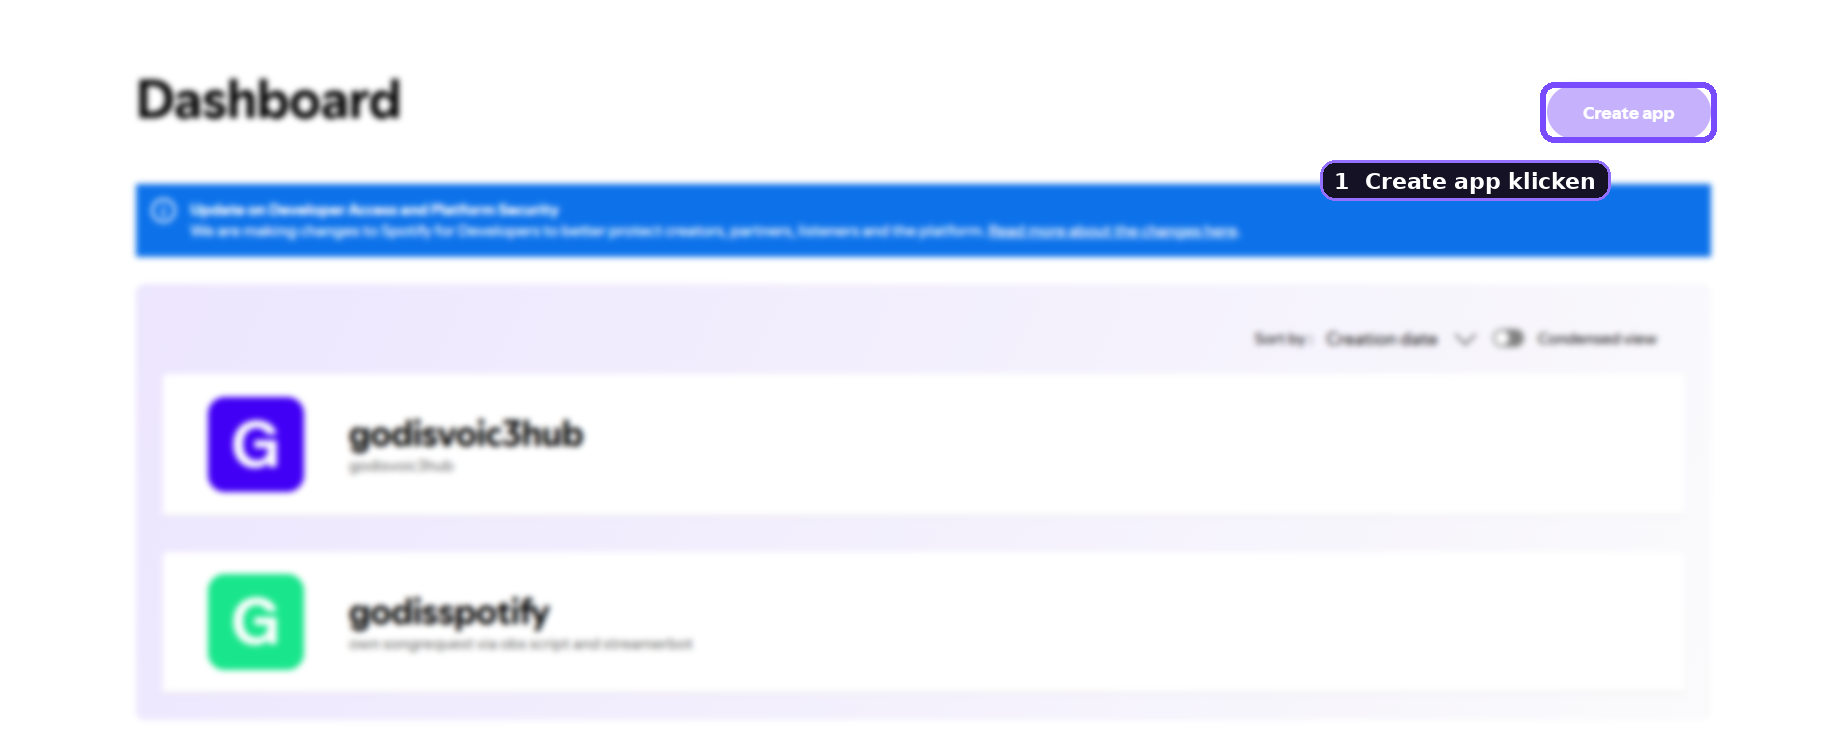
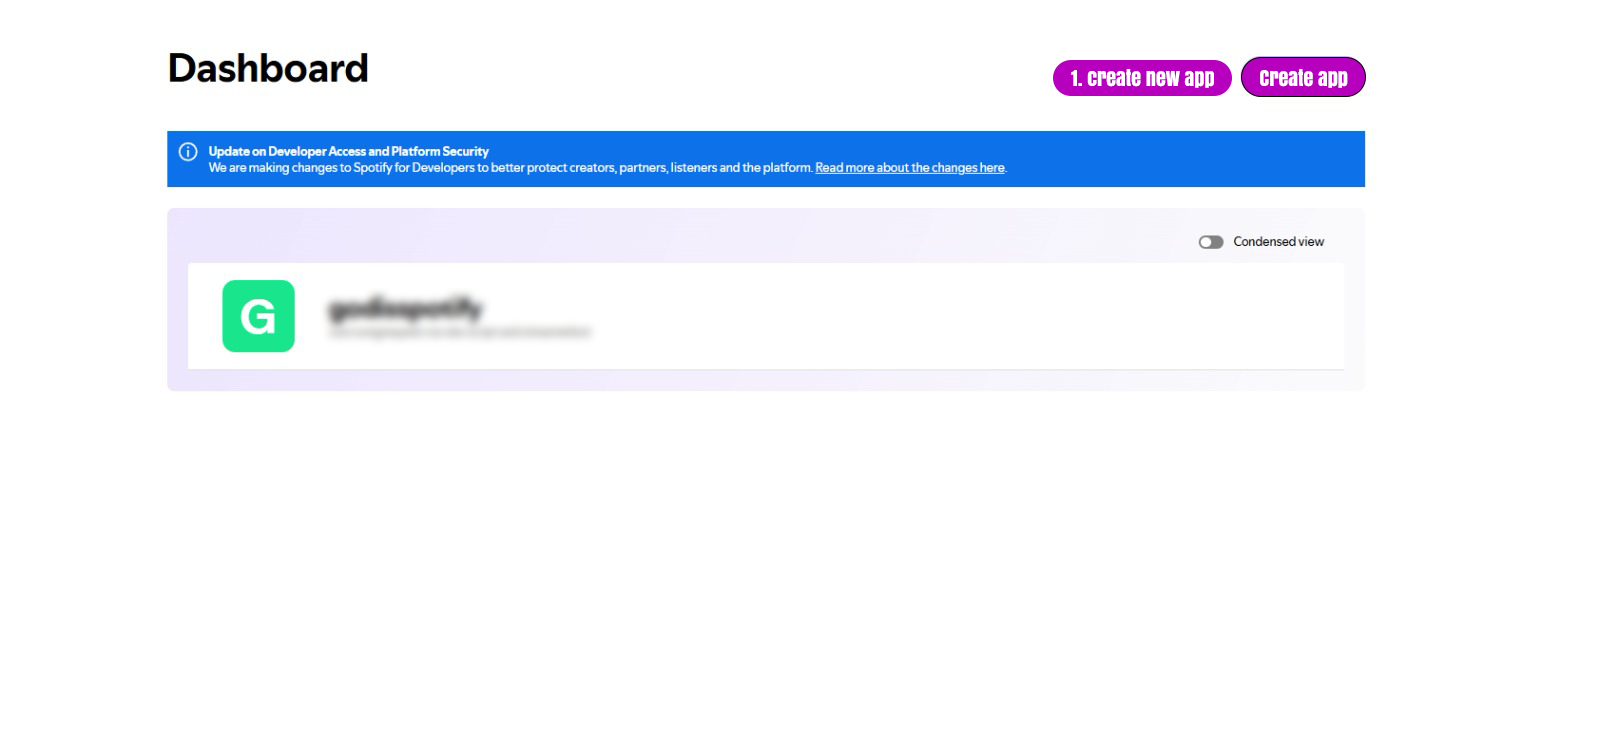
Fix spotify overlay sync and tutorial assets

Changed region(s): [[0.0625, 0.0599, 0.9375, 0.6894], [0.0938, 0.7493, 0.375, 0.9292], [0.6562, 0.4196, 0.9062, 0.4796]]

diff --git a/core/host/static/js/app.js b/core/host/static/js/app.js
@@ -54,7 +54,7 @@ const TESTER_CREDITS = [
 function nav(active){
   const items = [
     ["dashboard","Dashboard","/"],["platforms","Plattformen","/plattformen"],["chat","Chat","/chat"],["obs_meld","OBS/Meld Integration","/obs-meld-integration"],
-    ["info3ditor","Info3ditor","/info3ditor"],["chattim3r","Chattim3r","/chattim3r"],["plugins","Plugins","/plugins"],["modalot","Modalot","/modalot"],["spotify","Spotis3mptify","/spotis3mptify"],["easyslider","3asyslid3r","/3asyslid3r"],["settings",L("Einstellungen","Settings"),"/einstellungen"],["tutorials","Tutorials","/tutorials"],["dev","DEV","/dev"]
+    ["info3ditor","Info3ditor","/info3ditor"],["chattim3r","Chattim3r","/chattim3r"],["plugins","Plugins","/plugins"],["modalot","Modalot","/modalot"],["easyslider","3asyslid3r","/3asyslid3r"],["settings",L("Einstellungen","Settings"),"/einstellungen"],["tutorials","Tutorials","/tutorials"],["dev","DEV","/dev"]
   ];
   const issueUrl = "https://github.com/godis3mpty666/godisalotachatw3b/issues/new?title=" + encodeURIComponent("[Feedback] ") + "&body=" + encodeURIComponent("**Was ist passiert oder was soll verbessert werden?**\n\n\n**So kann man es nachstellen (bei einem Bug):**\n1. \n2. \n\n**Version:** " + (window.WEB_VERSION || "unbekannt") + "\n\n**Zusätzliche Infos / Screenshots:**\n");
   const credits = [
@@ -639,9 +639,9 @@ async function renderTutorials(){
   const steps=[
     {title:"Open the Spotify Developer Dashboard",text:"Open the Spotify Developer Dashboard and click Create app.",image:"01_spotify_dashboard_app_erstellen_markieren.png"},
     {title:"Create your app",text:"Enter an app name and a short app description. Then create the app.",image:"02_app_name_und_beschreibung_markieren.png"},
-    {title:"Add the Redirect URI",text:"Open the app settings, add the Redirect URI shown below under Redirect URIs, and save it.",image:"03_redirect_uri_hinzufuegen_markieren.png",redirect:true},
-    {title:"Copy the Client ID",text:"Copy the Client ID from your Spotify app and paste it below.",image:"04_client_id_kopieren_markieren.png",credentials:true},
-    {title:"Copy the Client Secret",text:"Click View client secret, copy the Client Secret, and paste it below.",image:"05_client_secret_anzeigen_und_kopieren_markieren.png",credentials:true},
+    {title:"Copy Client ID and Client Secret",text:"Copy the Client ID and Client Secret from your Spotify app and paste them below.",image:"04_spotify_client_id_secret_blur_markieren.png",credentials:true},
+    {title:"Copy the Redirect URL",text:"Copy the Redirect URL shown below and add it under Redirect URIs in Spotify.",image:"05_spotify_redirect_url_kopieren_markieren.png",redirect:true},
+    {title:"Save the Spotify app",text:"Save the Spotify app settings after the Redirect URL is added.",image:"06_spotify_save_markieren.png",redirect:true},
     {title:"Save and connect Spotify",text:"Save the app settings, then save your credentials and start the Spotify sign-in.",image:"06_app_einstellungen_speichern_markieren.png",credentials:true,connect:true}
   ];
   const twitchSteps=[
@@ -696,6 +696,14 @@ async function renderTutorials(){
     "Open the Tools menu in OBS":"Werkzeuge-Menü in OBS öffnen","Start OBS Studio and open Tools in the top menu bar.":"Starte OBS Studio und öffne Werkzeuge in der oberen Menüleiste.","Open WebSocket Server Settings":"WebSocket-Servereinstellungen öffnen","Choose WebSocket Server Settings. OBS Studio 28 and newer already include obs-websocket.":"Wähle WebSocket-Servereinstellungen. Ab OBS Studio 28 ist obs-websocket bereits enthalten.","Enable the WebSocket server":"WebSocket-Server aktivieren","Enable the WebSocket server and keep authentication enabled. A password prevents unauthorized programs from controlling OBS.":"Aktiviere den WebSocket-Server und lasse die Authentifizierung eingeschaltet. Das Passwort schützt OBS vor unerlaubter Steuerung.","Copy port and password":"Port und Passwort kopieren","Keep the server port, normally 4455, and copy or set the WebSocket password. Show Connect Info can display the current connection information.":"Übernimm den Server-Port, normalerweise 4455, und kopiere oder setze das WebSocket-Passwort. Show Connect Info zeigt die aktuellen Verbindungsdaten.","Save and test the OBS connection":"OBS-Verbindung speichern und testen","Enter host, port, and password below, save them, and test the local WebSocket connection.":"Trage unten Host, Port und Passwort ein, speichere sie und teste die lokale WebSocket-Verbindung.",
     "Open MELD Settings":"MELD-Einstellungen öffnen","Start MELD Studio and open Settings.":"Starte MELD Studio und öffne die Einstellungen.","Allow remote connections":"Remote-Verbindungen erlauben","Open Advanced and enable Allow remote connections. This starts MELD's local WebChannel interface.":"Öffne Erweitert bzw. Advanced und aktiviere Allow remote connections. Dadurch startet MELDs lokale WebChannel-Schnittstelle.","Save and test the MELD connection":"MELD-Verbindung speichern und testen","Keep the local defaults 127.0.0.1 and port 13376, save them in godisalotachat, and test the connection.":"Behalte die lokalen Standardwerte 127.0.0.1 und Port 13376 bei, speichere sie in godisalotachat und teste die Verbindung."
   };
+  Object.assign(tutorialDe,{
+    "Copy Client ID and Client Secret":"Client ID und Client Secret kopieren",
+    "Copy the Client ID and Client Secret from your Spotify app and paste them below.":"Kopiere Client ID und Client Secret aus deiner Spotify-App und fuege beide unten ein.",
+    "Copy the Redirect URL":"Redirect-URL kopieren",
+    "Copy the Redirect URL shown below and add it under Redirect URIs in Spotify.":"Kopiere die unten angezeigte Redirect-URL und trage sie in Spotify unter Redirect URIs ein.",
+    "Save the Spotify app":"Spotify-App speichern",
+    "Save the Spotify app settings after the Redirect URL is added.":"Speichere die Spotify-App-Einstellungen, nachdem die Redirect-URL hinzugefuegt wurde."
+  });
   const tutorialCopy=value=>L(tutorialDe[String(value)]||String(value),String(value));
   const tutorialCounter=(index,total)=>L(`Schritt ${index+1} von ${total}`,`Step ${index+1} of ${total}`);
   const showOverview=()=>{
@@ -919,9 +927,10 @@ async function renderTutorials(){
   const showMeld=()=>{
     let index=0;
     shell("tutorials","Tutorials",L("MELD-Remoteverbindung aktivieren und lokal testen.","Enable MELD remote connections and test locally."),`<section class="card tutorialWizard"><button type="button" class="secondary tutorialOverviewBack" id="tutorialOverviewBack">← ${L("Alle Plattformen","All platforms")}</button><div class="tutorialLayout"><aside class="tutorialSteps" id="tutorialSteps"></aside><div class="tutorialMain"><div class="tutorialProgress"><span id="tutorialProgressBar"></span></div><div class="tutorialCounter" id="tutorialCounter"></div><h3 id="tutorialTitle"></h3><p id="tutorialText"></p><div class="tutorialImageFrame"><img id="tutorialImage" alt="MELD setup"></div><div id="tutorialFields" class="tutorialFields"></div><div class="btnLine tutorialActions"><button type="button" class="secondary" id="tutorialPrev">${L("Zurück","Back")}</button><button type="button" id="tutorialNext">${L("Weiter","Next")}</button></div><div class="small" id="tutorialResult"></div></div></div></section>`);
-    const saveAndTest=async()=>{const result=$("#tutorialResult");meld.enabled=true;meld.autoconnect=true;meld.host="127.0.0.1";meld.port="13376";delete meld.password;result.textContent=L("MELD-Einstellungen werden gespeichert...","Saving MELD settings...");const saved=await api("/api/settings",{method:"POST",headers:{"Content-Type":"application/json"},body:JSON.stringify(all)});if(!saved.ok){result.textContent=L("Speichern fehlgeschlagen: ","Could not save: ")+(saved.error||L("Unbekannter Fehler","Unknown error"));return;}result.textContent=L("Gespeichert. MELD-Verbindung wird getestet...","Saved. Testing the MELD connection...");const checked=await api("/api/test-platform/meld",{timeoutMs:10000});result.textContent=checked.ok?L("Verbunden: ","Connected: ")+(checked.detail||"MELD"):L("Verbindung fehlgeschlagen: ","Connection failed: ")+(checked.detail||checked.error||L("Unbekannter Fehler","Unknown error"));};
-    const render=()=>{const step=meldSteps[index];$("#tutorialSteps").innerHTML=meldSteps.map((item,i)=>`<button type="button" class="tutorialStep ${i===index?"active":""} ${i<index?"done":""}" data-step="${i}"><span>${i+1}</span><b>${esc(tutorialCopy(item.title))}</b></button>`).join("");$("#tutorialCounter").textContent=tutorialCounter(index,meldSteps.length);$("#tutorialTitle").textContent=tutorialCopy(step.title);$("#tutorialText").textContent=tutorialCopy(step.text);$("#tutorialImage").src=`/tutorial-asset/meld/${encodeURIComponent(step.image)}`;$("#tutorialImage").alt=tutorialCopy(step.title);$("#tutorialProgressBar").style.width=`${(index+1)/meldSteps.length*100}%`;$("#tutorialFields").innerHTML=step.connect?`<label><div>Host</div><input value="127.0.0.1" readonly></label><label><div>Port</div><input value="13376" readonly></label>`:"";$("#tutorialPrev").disabled=index===0;$("#tutorialNext").textContent=step.connect?L("Speichern & Verbindung testen","Save & test connection"):L("Weiter","Next");$$(".tutorialStep").forEach(button=>button.onclick=()=>{index=Number(button.dataset.step);render();});};
-    $("#tutorialOverviewBack").onclick=showOverview;$("#tutorialPrev").onclick=()=>{if(index>0){index--;render();}};$("#tutorialNext").onclick=()=>{if(index<meldSteps.length-1){index++;render();}else saveAndTest();};render();
+    const capture=()=>{const host=$("#tutorialMeldHost"),port=$("#tutorialMeldPort");if(host)meld.host=host.value.trim()||"127.0.0.1";if(port)meld.port=port.value.trim()||"13376";};
+    const saveAndTest=async()=>{const result=$("#tutorialResult");capture();meld.enabled=true;meld.autoconnect=true;delete meld.password;all.plugins=all.plugins||{};all.plugins.meld_control=all.plugins.meld_control||{};all.plugins.meld_control.enabled=true;result.textContent=L("MELD-Einstellungen werden gespeichert...","Saving MELD settings...");const saved=await api("/api/settings",{method:"POST",headers:{"Content-Type":"application/json"},body:JSON.stringify(all)});if(!saved.ok){result.textContent=L("Speichern fehlgeschlagen: ","Could not save: ")+(saved.error||L("Unbekannter Fehler","Unknown error"));return;}result.textContent=L("Gespeichert. MELD-Verbindung wird getestet...","Saved. Testing the MELD connection...");const checked=await api("/api/test-platform/meld",{timeoutMs:10000});result.textContent=checked.ok?L("Verbunden: ","Connected: ")+(checked.detail||"MELD"):L("Verbindung fehlgeschlagen: ","Connection failed: ")+(checked.detail||checked.error||L("Unbekannter Fehler","Unknown error"));};
+    const render=()=>{const step=meldSteps[index];$("#tutorialSteps").innerHTML=meldSteps.map((item,i)=>`<button type="button" class="tutorialStep ${i===index?"active":""} ${i<index?"done":""}" data-step="${i}"><span>${i+1}</span><b>${esc(tutorialCopy(item.title))}</b></button>`).join("");$("#tutorialCounter").textContent=tutorialCounter(index,meldSteps.length);$("#tutorialTitle").textContent=tutorialCopy(step.title);$("#tutorialText").textContent=tutorialCopy(step.text);$("#tutorialImage").src=`/tutorial-asset/meld/${encodeURIComponent(step.image)}`;$("#tutorialImage").alt=tutorialCopy(step.title);$("#tutorialProgressBar").style.width=`${(index+1)/meldSteps.length*100}%`;$("#tutorialFields").innerHTML=step.connect?`<label><div>Host</div><input id="tutorialMeldHost" value="${esc(meld.host||"127.0.0.1")}"></label><label><div>Port</div><input id="tutorialMeldPort" value="${esc(meld.port||"13376")}"></label>`:"";$("#tutorialPrev").disabled=index===0;$("#tutorialNext").textContent=step.connect?L("Speichern & Verbindung testen","Save & test connection"):L("Weiter","Next");$$(".tutorialStep").forEach(button=>button.onclick=()=>{capture();index=Number(button.dataset.step);render();});};
+    $("#tutorialOverviewBack").onclick=showOverview;$("#tutorialPrev").onclick=()=>{capture();if(index>0){index--;render();}};$("#tutorialNext").onclick=()=>{capture();if(index<meldSteps.length-1){index++;render();}else saveAndTest();};render();
   };
   showOverview();
 }

diff --git a/modules/plugins/spotis3mptify/spotis3mptify_core.py b/modules/plugins/spotis3mptify/spotis3mptify_core.py
@@ -1291,6 +1291,7 @@ NOWPLAYING = {"ok": False, "provider": "spotify", "accent": "#1DB954", "is_playi
 _NP_LOCK = threading.Lock()
 _NP_LAST_ID = ""
 _NP_LAST_PROGRESS = 0
+_MAIN_UI_NP_CACHE = {"ts": 0.0, "last_sig": ""}
 
 def _download_to(path, url):
     if not url: return False
@@ -1405,6 +1406,71 @@ def _update_nowplaying_files(meta, download_cover: bool):
         
     except Exception as e:
         _log_throttled("WARN", "np_file_export_failed", f"nowplaying file export failed: {e}", 30)
+
+def _sync_nowplaying_from_main_ui(force=False):
+    """Keep the standalone overlay in step with the main dashboard source."""
+    global NOWPLAYING, _MAIN_UI_NP_CACHE
+    base = (MAIN_UI_BASE or "").strip().rstrip("/")
+    if not base:
+        return False
+    try:
+        parsed = urllib.parse.urlparse(base)
+        if int(parsed.port or 80) == int(PORT):
+            return False
+    except Exception:
+        pass
+    now = time.time()
+    if not force and now - float(_MAIN_UI_NP_CACHE.get("ts") or 0.0) < 0.75:
+        return False
+    _MAIN_UI_NP_CACHE["ts"] = now
+    try:
+        req = urllib.request.Request(base + "/api/nowplaying?_=" + str(int(now * 1000)), method="GET", headers={"Accept": "application/json"})
+        with urllib.request.urlopen(req, timeout=1.2) as resp:
+            data = json.loads(resp.read().decode("utf-8", "ignore") or "{}")
+    except Exception as e:
+        _log_throttled("WARN", "main_ui_np_sync_failed", f"main ui nowplaying sync failed: {e}", 30)
+        return False
+    if not isinstance(data, dict):
+        return False
+    title = str(data.get("title") or data.get("name") or "").strip()
+    if not title or title == "Kein Song aktiv":
+        return False
+    cover = str(data.get("cover") or data.get("cover_url") or "").strip()
+    provider = str(data.get("provider") or data.get("source") or "spotify").strip().lower()
+    if provider not in ("youtube", "ytmusic"):
+        provider = "spotify"
+    meta = {
+        "ok": True,
+        "provider": provider,
+        "accent": "#FF0033" if provider in ("youtube", "ytmusic") else "#1DB954",
+        "is_playing": bool(data.get("is_playing", data.get("active", True))),
+        "id": str(data.get("id") or data.get("video_id") or data.get("url") or cover or title),
+        "title": title,
+        "artist": str(data.get("artist") or data.get("artists") or "").strip(),
+        "album": str(data.get("album") or "").strip(),
+        "url": str(data.get("url") or "").strip(),
+        "progress_ms": int(data.get("progress_ms") or 0),
+        "duration_ms": int(data.get("duration_ms") or 0),
+        "covers": {"url_640": cover, "url_300": cover, "url_64": cover},
+    }
+    sig = "|".join([meta["provider"], meta["id"], meta["title"], meta["artist"], cover])
+    with _NP_LOCK:
+        current_cover = ((NOWPLAYING.get("covers") or {}).get("url_640") or "")
+        old_sig = "|".join([
+            str(NOWPLAYING.get("provider") or ""),
+            str(NOWPLAYING.get("id") or ""),
+            str(NOWPLAYING.get("title") or ""),
+            str(NOWPLAYING.get("artist") or ""),
+            current_cover,
+        ])
+        if not force and sig == old_sig:
+            return False
+        NOWPLAYING.update(meta)
+        NOWPLAYING["updated_at"] = _now()
+        NOWPLAYING["files"] = {"artist": _p_np_artist(), "title": _p_np_title(), "album": _p_np_album(), "combo": _p_np_combo(), "url": _p_np_url(), f"cover_{COVER_IMAGE_SIZE}": _p_cover(COVER_IMAGE_SIZE)}
+    _MAIN_UI_NP_CACHE["last_sig"] = sig
+    _update_nowplaying_files(meta, download_cover=bool(cover and cover != current_cover))
+    return True
 
 def _extract_nowplaying_from_state(st):
     item = st.get("item") or {}
@@ -1568,6 +1634,7 @@ def _overlay_current():
         yt_active_for_overlay = False
     if not yt_active_for_overlay:
         _promote_spotify_if_really_playing("overlay_current")
+        _sync_nowplaying_from_main_ui()
     with _NP_LOCK:
         cur = dict(NOWPLAYING)
     try:
@@ -3106,7 +3173,7 @@ function provider(){return String(np.provider||np.source||'spotify').toLowerCase
 function providerColor(){return state.colors?.[provider()]||(provider()==='youtube'?'#FF0033':'#1DB954')}
 function bindValue(el){if(el.bind==='artist')return provider()==='youtube'?(np.artist||'powered by spotis3mptify'):(np.artist||'');if(el.bind==='song'||el.bind==='title')return provider()==='youtube'?(np.title||np.song||'YouTube Music'):(np.title||np.song||'');if(el.bind==='providerColor')return providerColor();return el.text||''}
 function fitText(n,el,force=false){if(!n||el.type!=='text')return;let sp=n.querySelector('.textInner');if(!sp)return;let boxW=n.clientWidth||(+el.w||1), textW=sp.scrollWidth||1, overflow=Math.max(0,textW-boxW);let c=canvas();let mode=(el.marqueeMode&&el.marqueeMode!=='global')?el.marqueeMode:(c.marqueeMode||'bounce');let speed=+(el.marqueeSpeed||c.marqueeSpeed||45);if(!isFinite(speed)||speed<10)speed=45;let sig=[sp.textContent,boxW,textW,overflow,mode,speed,el.font,el.fontSize,el.align].join('|');if(!force&&sp.dataset.marqueeSig===sig)return;sp.dataset.marqueeSig=sig;sp.style.animation='none';sp.style.transform='translateX(0)';n.classList.remove('marquee-on');sp.style.setProperty('--box-width',boxW+'px');sp.style.setProperty('--text-width',textW+'px');sp.style.setProperty('--marquee-distance',overflow+'px');if(mode==='off'||overflow<2)return;n.classList.add('marquee-on');if(mode==='scroll-rtl'){let dur=Math.max(3,(textW+boxW)/speed);sp.style.animation='s3scrollrtl '+dur+'s linear infinite'}else if(mode==='scroll-ltr'){let dur=Math.max(3,(textW+boxW)/speed);sp.style.animation='s3scrollltr '+dur+'s linear infinite'}else{let dur=Math.max(2.2,overflow/speed);sp.style.animation='s3bounce '+dur+'s ease-in-out infinite alternate'}}
-function coverKey(){return String(np.cover_version||np.id||np.video_id||np.url||np.updated_at||'none')}
+function coverKey(){let c=np.covers||{};return String(c.url_640||c.url_300||c.url_64||np.thumbnail||np.cover||np.cover_url||np.video_id||np.id||'none')}
 function coverUrl(){let key=encodeURIComponent(coverKey());return '/cover/latest?size=640&s3v='+key}
 function applyStyle(n,el){n.style.left=(+el.x||0)+'px';n.style.top=(+el.y||0)+'px';n.style.width=(+el.w||80)+'px';n.style.height=(+el.h||30)+'px';n.style.opacity=el.opacity??1;n.style.zIndex=el.z||1;n.style.borderRadius=(+el.radius||0)+'px';if(el.type==='text'){n.style.fontFamily=el.font||'Arial';n.style.fontSize=(+el.fontSize||32)+'px';n.style.fontWeight=el.bold?'900':'400';n.style.color=el.color||'#fff';n.style.justifyContent=el.align==='center'?'center':el.align==='right'?'flex-end':'flex-start'}if(el.type==='shape'||el.type==='line'){n.style.background=el.bind==='providerColor'?providerColor():(el.color||'#fff')}} 
 function animate(n,fx){if(!fx||fx==='none')return;n.classList.remove('fx-'+fx);void n.offsetWidth;n.classList.add('fx-'+fx);setTimeout(()=>n.classList.remove('fx-'+fx),700)}

diff --git a/core/runtime/webbased_server.py b/core/runtime/webbased_server.py
@@ -4710,17 +4710,33 @@ class Handler(BaseHTTPRequestHandler):
 
         if path == "/api/overlay-urls":
             base = f"http://127.0.0.1:{st.port}"
+            spotify_overlay_url = f"http://127.0.0.1:17891/customoverlay"
+            try:
+                spotify_plugin = st.plugin_instances.get("spotis3mptify")
+                plugin_url = getattr(spotify_plugin, "overlay_url", None)
+                if callable(plugin_url):
+                    spotify_overlay_url = str(plugin_url() or spotify_overlay_url)
+                else:
+                    spotify_cfg = st.settings().get("plugins", {}).get("spotis3mptify", {})
+                    if isinstance(spotify_cfg, dict):
+                        port = int(str(spotify_cfg.get("port") or 17891).strip())
+                        if port == 5173:
+                            port = 17891
+                        spotify_overlay_url = f"http://127.0.0.1:{port}/customoverlay"
+            except Exception:
+                pass
             self._json({
                 "main": [
                     {"name":"Chat Browser", "url":base + "/chat-browser"},
-                    {"name":"Spotis3mptify Overlay", "url":base + "/overlay/spotify"}
+                    {"name":"Spotis3mptify Overlay", "url":spotify_overlay_url}
                 ],
                 "groups": [
                     {"title": "Wichtige Browserquellen", "items": [
                         {"name":"Chat Browser", "url":base + "/chat-browser"},
-                        {"name":"Spotis3mptify Overlay", "url":base + "/overlay/spotify"}
+                        {"name":"Spotis3mptify Overlay", "url":spotify_overlay_url}
                     ]},
                     {"title": "Spotis3mptify Kompatibilität", "items": [
+                        {"name":"Komplettes Overlay (stabil)", "url":spotify_overlay_url},
                         {"name":"Titel", "url":base + "/browser/title"},
                         {"name":"Artist", "url":base + "/browser/artist"},
                         {"name":"Song Alias", "url":base + "/browser/song"},
@@ -5064,6 +5080,11 @@ class Handler(BaseHTTPRequestHandler):
                 current["platforms"] = incoming["platforms"]
             if "plugins" in incoming and isinstance(incoming["plugins"], dict):
                 current["plugins"] = incoming["plugins"]
+            if "platforms" in incoming and isinstance(incoming["platforms"], dict):
+                for platform, plugin_id in {"meld": "meld_control", "obs": "obs_control"}.items():
+                    cfg = current.get("platforms", {}).get(platform, {})
+                    if platform in incoming["platforms"] and isinstance(cfg, dict) and bool(cfg.get("enabled", False)) and bool(cfg.get("autoconnect", True)):
+                        current.setdefault("plugins", {}).setdefault(plugin_id, {})["enabled"] = True
             if "ui" in incoming and isinstance(incoming["ui"], dict):
                 current.setdefault("ui", {})
                 current["ui"].update(incoming["ui"])
@@ -5081,6 +5102,9 @@ class Handler(BaseHTTPRequestHandler):
                     if platform not in changed_platforms:
                         continue
                     st.plugin_manager.restart_plugin_async(plugin_id, f"{platform} gespeichert; Neustart laeuft")
+                for platform, plugin_id in {"meld": "meld_control", "obs": "obs_control"}.items():
+                    if platform in changed_platforms:
+                        st.plugin_manager.restart_plugin_async(plugin_id, f"{platform} gespeichert; Neustart laeuft")
             except Exception as exc:
                 st.log("chat-plugins", "restart after settings failed", exc)
             try:

diff --git a/shared/version.py b/shared/version.py
@@ -3,4 +3,4 @@
 except ImportError:
     BUILD_SUFFIX = ""
 
-APP_VERSION = "0.87" + BUILD_SUFFIX
+APP_VERSION = "0.91" + BUILD_SUFFIX